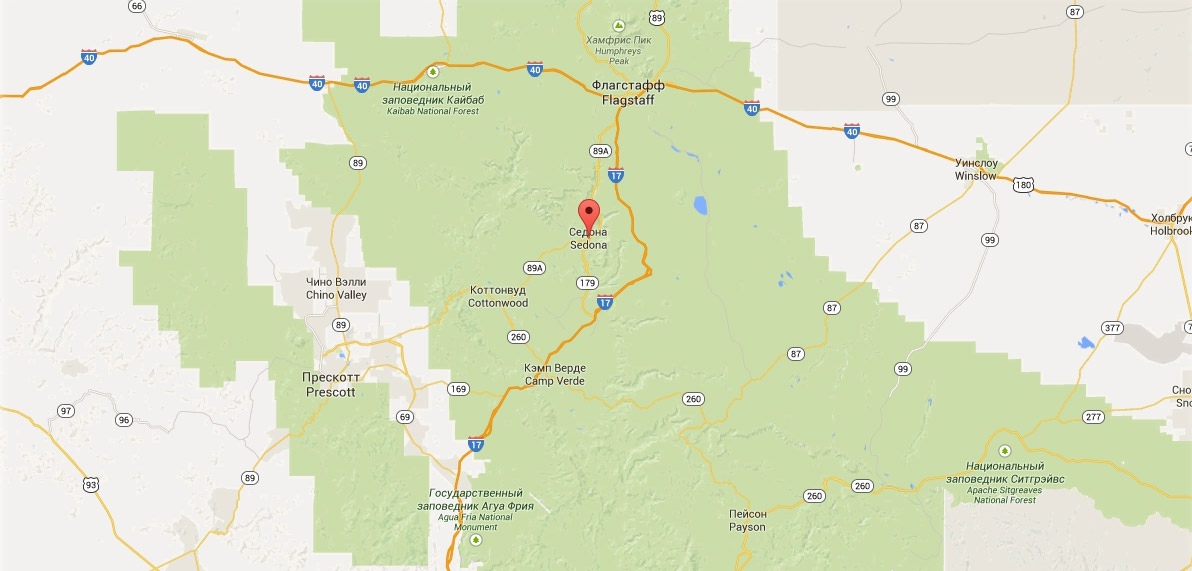
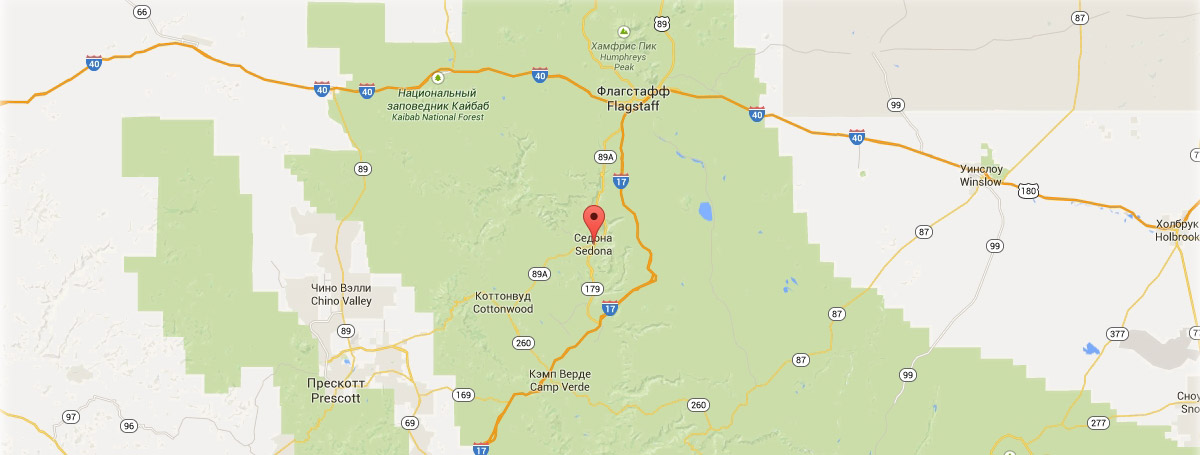
Pixel perfect

diff --git a/css/style.css b/css/style.css
@@ -378,7 +378,8 @@ img{
 	font-size: 21px;
 	color: #fff;
 	font-weight: bold;
-	padding: 31px 140px;
+	width: 568px;
+	padding: 31px 0;
 	border: none;
 	background: #766357;
 	cursor: pointer;
@@ -444,8 +445,8 @@ img{
 	width: 10px;
 	height: 2px;
 	background: #a9a9a9;
-	left: 5px;
-	top: 6px;
+	left: 2px;
+	top: 8px;
 	cursor: pointer;
 	transition: 0.6s;
 }
@@ -515,19 +516,22 @@ img{
 /*map-container*/
 .iframe{
 	width: 1200px;
-	height: 570px;
+	height: 472px;
 	border: none;
+	position: absolute;
+	left: 0;
+	top: 0;
+	/*z-index: 50;*/
 }
 
 .map-container{
 	position: relative;
-	height: 570px;
+	height: 472px;
 }
 
 .map-img{
 	display: block;
 	width: 1200px;
-	height: 570px;
 	position: absolute;
 	left: 0;
 	top: 0;
@@ -540,8 +544,7 @@ img{
 	display: none;
 	background: #fff;
 	position: absolute;
-	padding-left: 36px;
-    padding-right: 36px;
+	width: 568px;
     padding-top: 55px;
     padding-bottom: 30px;
 	left: 50%;
@@ -551,7 +554,7 @@ img{
 	
 }
 .findhotel-date{
-	width: 92%;
+	width: 80%;
 	margin: 0 auto;
 	padding: 0;
 	font-family: "ptSans","Arial",sans-serif;
@@ -586,7 +589,7 @@ img{
 	border: 2px solid transparent;
 	outline: none;
 	background: #f2f2f2;
-	padding: 10px 60px 10px 15px;
+	padding: 10px 60px 10px 9px;
 }
 .data-number:hover{
 	background: #ebebeb;
@@ -597,7 +600,7 @@ img{
 }
 .calendar{
 	position: absolute;
-	right: 60px;
+	right: 65px;
 	cursor: pointer;
 }
 .calendar:hover path{
@@ -636,9 +639,7 @@ img{
 .footer{
 	overflow: hidden;
 	background: #fff;
-}
-.footer-main-index{
-	margin-top: -100px;
+	
 }
 .footer-content{
 	width: 84%;
@@ -649,6 +650,7 @@ img{
 	justify-content: space-between;
 	align-items: center;
 	text-align: left;
+
 }
 
 .footer-visit{
@@ -691,6 +693,7 @@ img{
 }
 svg{
 	fill: #fff;
+	margin-left: 2px;
 }
 .social-item:active svg{
 	fill: #88b6d1;
@@ -941,10 +944,12 @@ svg{
 
 .button-content{
 	width: 100%;
-	text-align: center;
 }
 .button-range{
-	padding: 10px 35px 6px 35px;
+	/*padding: 10px 35px 6px 35px;*/
+	width: 137px;
+	margin: 0 82px;
+	padding: 8px 0;
 	background: transparent;
 	border: 2px solid #fff;
 	text-align: center;
@@ -1044,6 +1049,7 @@ svg{
 .triangle-down>svg:active,
 .triangle-down-active>svg{
 	fill: #81b3d2;
+	margin-left: -4px;
 }
 
 .triangle-down{
@@ -1091,7 +1097,13 @@ svg{
 }
 .hotel-price{
 
-	margin-left: 35px;
+	margin-left: 32px;
+}
+.price-price.price-price-motel{
+	margin-left: 58px;
+}
+.price-price.price-price-appertment{
+	margin-left: 10px;
 }
 .hotel-price-text{
 	text-transform: uppercase;
@@ -1099,8 +1111,11 @@ svg{
 }
 .price-text{
 	display: inline-block;
-	margin-right: 18px;
+	/*vertical-align: middle;*/
 	margin-bottom: 12px;
+}
+.price-price{
+	margin-left: 30px;
 }
 .hotel-more-link,
 .button-hotel-book{
@@ -1117,7 +1132,7 @@ svg{
 }
 .hotel-more-link{
 	text-decoration: none;
-	padding: 5px 15px;
+	padding: 5px 17px;
 }
 .hotel-more-link:hover,
 .hotel-more-link:focus{

diff --git a/index.html b/index.html
@@ -96,7 +96,7 @@
 				<div class="property">
 					<h3 class="property-title">небольшая площадь</h3>
 					<p class="property-number">№3</p>
-					<p class="property-text">ВСЕ достопримечательности </br>находятся очень близко</p>
+					<p class="property-text">ВСЕ достопримечательности находятся очень близко</p>
 				</div>
 				<div class="property">
 					<h3 class="property-title">красивая дорога</h3>
@@ -124,7 +124,7 @@
 
 		<div class="map-container">
 			<iframe class="iframe" src="https://yandex.by/map-widget/v1/-/CBaSE6uJSD"></iframe>
-			<img src="img/map.jpg" class="map-img" width="1200" height="570" alt="Карта. Седона.">
+			<img src="img/map.jpg" class="map-img" width="1200" height="472" alt="Карта. Седона.">
 
 			<form action="echo" class="findhotel" method="post">
 				<p class="findhotel-date">
@@ -165,8 +165,8 @@
 			</form>
 		</div>
 
-		<footer class="footer-main footer-main-index">
-			<div class="footer layout-positioner">
+		<footer class="footer-main">
+			<div class="footer">
 				<div class="footer-content">
 					<div class="footer-visit">
 						<p class="visit-text">#visitsedona</p>

diff --git a/hotel.html b/hotel.html
@@ -146,7 +146,7 @@
 							<h3 class="hotel-description-title">Desert Quail Inn </h3>
 							<p class="hotel-price-text">
 								<span class="price-text">мотель</span>
-								<span class="price-price">от 3000 р.</span>
+								<span class="price-price price-price-motel">от 3000 р.</span>
 							</p>
 							<a href="#" class="hotel-more-link">подробнее</a>
 							<a href="#" class="hotel-more-link button-hotel-book">забронировать</a>
@@ -173,11 +173,10 @@
 							<h3 class="hotel-description-title">Villas at Poco Diablo</h3>
 							<p class="hotel-price-text">
 								<span class="price-text">аппартаменты</span>
-								<span class="price-price">от 2000 р.</span>
+								<span class="price-price price-price-appertment">от 2000 р.</span>
 							</p>
 							<a href="#" class="hotel-more-link">подробнее</a>
 							<a href="#" class="hotel-more-link button-hotel-book">забронировать</a>
-							<!-- <button class="button-hotel-book">забронировать</button> -->
 						</div>
 					</div>
 					<div class="hotels-rating">
